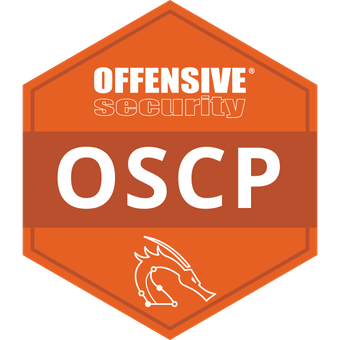
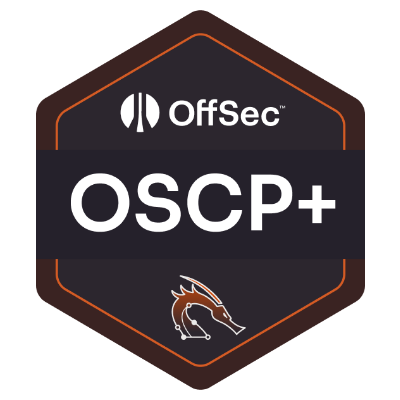
site: swap in the real OSCP+ badge; fit all 4 certs on one row
Swapped the placeholder OSCP badge art for the actual OSCP+ badge
(dark hexagon, OffSec wordmark) supplied directly. Changed the certs
grid from an auto-fill/minmax layout (which wrapped to 3+1) to a fixed
4-column grid at desktop width, stepping down to 2 columns at 900px
and 1 at 480px -- verified visually at 1400px, 850px, and 400px via a
headless screenshot.

diff --git a/src/styles/base.css b/src/styles/base.css
@@ -337,7 +337,9 @@ section, header[id], [id] { scroll-margin-top: 72px; }
 .proj-tech span { font-size: 0.72rem; font-family: var(--font-mono); color: var(--accent); border: 1px solid var(--border); border-radius: 999px; padding: 0.1rem 0.5rem; }
 
 /* ---------- certs -------------------------------------------------- */
-.cert-grid { display: grid; grid-template-columns: repeat(auto-fill, minmax(260px, 1fr)); gap: 1.1rem; }
+.cert-grid { display: grid; grid-template-columns: repeat(4, 1fr); gap: 1rem; }
+@media (max-width: 900px) { .cert-grid { grid-template-columns: repeat(2, 1fr); } }
+@media (max-width: 480px) { .cert-grid { grid-template-columns: 1fr; } }
 .cert-card {
   display: flex; gap: 1rem; align-items: flex-start;
   padding: 1.2rem; border-radius: var(--radius);
